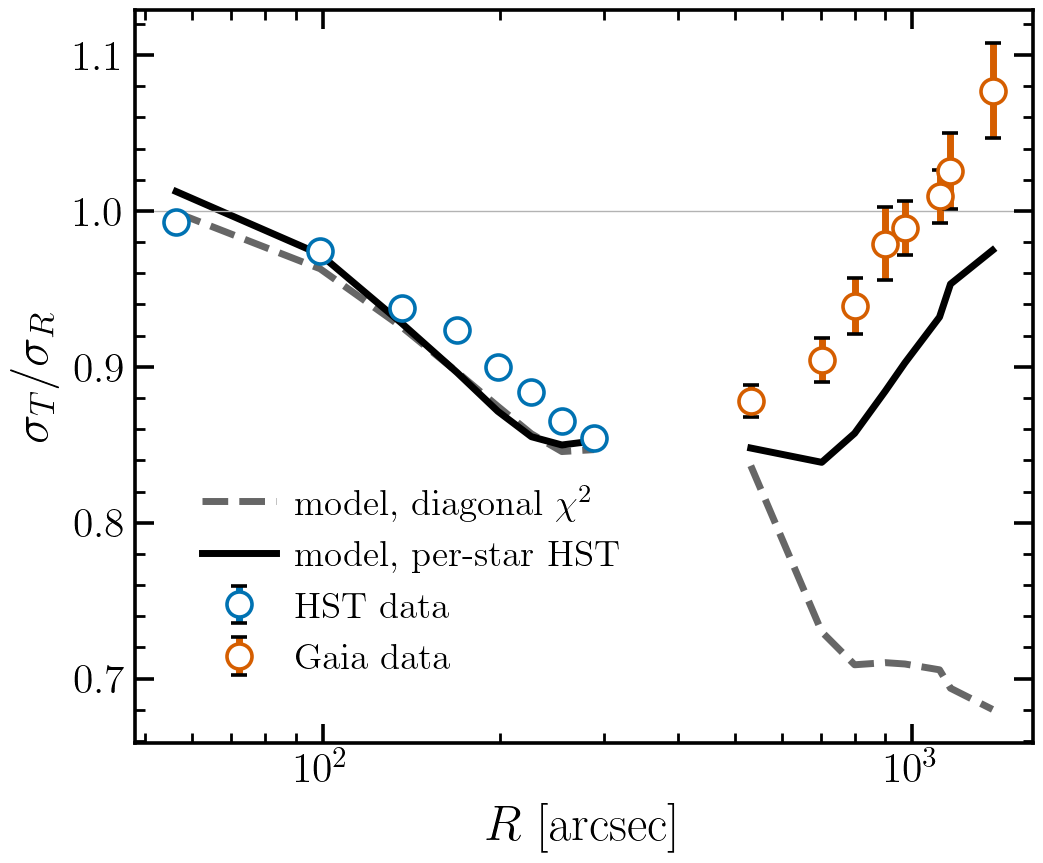
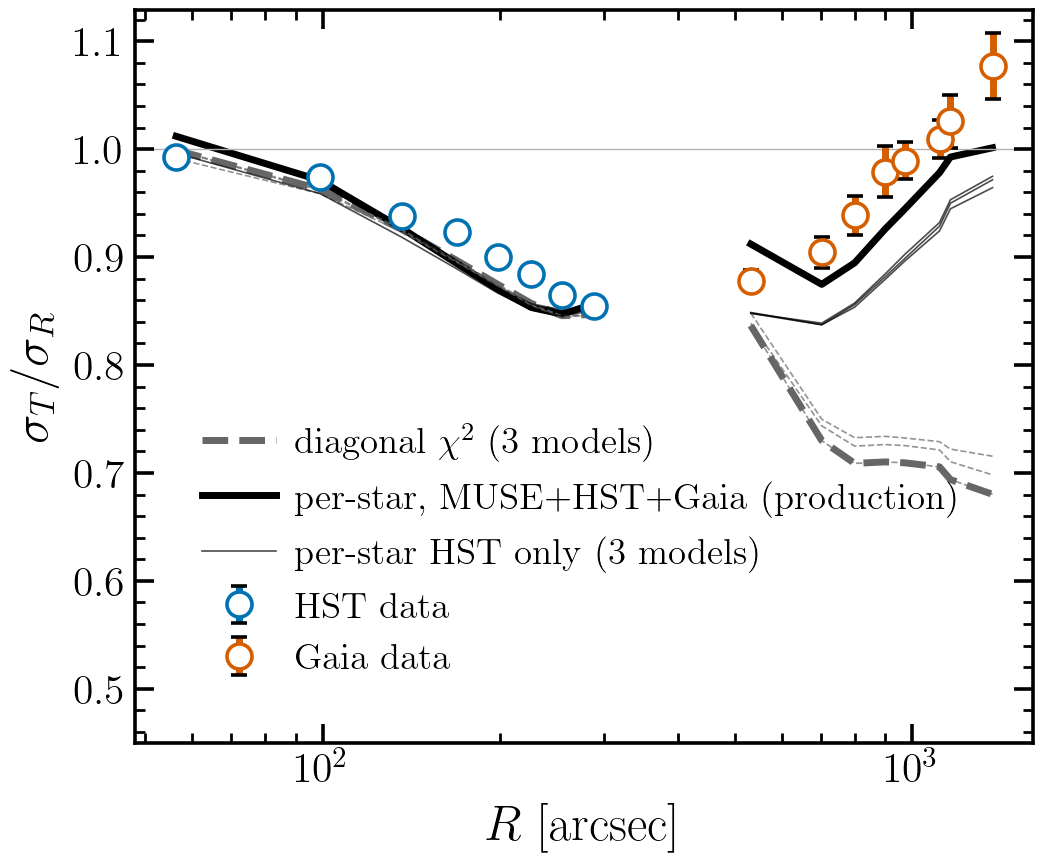
r10 from prod1 + three E1 libraries (paper + slide)

diff --git a/experiments/fitstat/paper_figs/r10_aniso.py b/experiments/fitstat/paper_figs/r10_aniso.py
@@ -1,6 +1,6 @@
 """Paper figure r10: the fitting statistic changes the inferred anisotropy. sigma_T/sigma_R against R for the data and
-for one model (orbit library orblib_001_001) solved under two statistics: diagonal chi2 on every set (v4) and the
-per-star HST likelihood (E1; MUSE and Gaia still diagonal).
+for orbit libraries solved under different statistics: diagonal chi2 on every set (v4), the per-star HST likelihood
+(E1), and the production statistic (per-star on MUSE, HST, Gaia). Main model thick, --also models thin.
 
 usage: python r10_aniso.py PACK_DIR MODEL_ANISO.npz TAG OUT.pdf [--slides] [--also MODEL_ANISO.npz ...]
 --also: other models (thin lines), each at v4 and at its one other weight tag, to show the change is not one model's.
@@ -21,7 +21,7 @@ P, Z, TAG, OUT = Path(sys.argv[1]), np.load(sys.argv[2]), sys.argv[3], sys.argv[
 SLIDES = "--slides" in sys.argv
 ALSO = sys.argv[sys.argv.index("--also") + 1:] if "--also" in sys.argv else []
 ALSO = [(np.load(f), next(k.split("|")[1] for k in np.load(f).files if k.split("|")[1] != "v4")) for f in ALSO]
-LABEL = "model, per-star likelihood" if TAG.startswith("prod") else "model, per-star HST"
+LABEL = "per-star, MUSE+HST+Gaia (production)" if TAG.startswith("prod") else "model, per-star HST"
 COL = {"hst_pm": "#0072B2", "gaia_pm": "#D55E00"}
 LAB = {"hst_pm": "HST", "gaia_pm": "Gaia"}
 
@@ -38,14 +38,16 @@ for s, f in (("hst_pm", "hst"), ("gaia_pm", "gaia")):
     r, m, e = mean_err(d["R"], d["st"] / d["sr"], g)
     ax.errorbar(r, m, e, ls="none", marker="o", color=COL[s], mec=COL[s], mfc="w", label=f"{LAB[s]} data", zorder=3)
     ax.plot(r, mean_err(d["R"], ratio("v4"), g)[1], color="0.4", ls="--",
-            label=r"model, diagonal $\chi^2$" if s == "hst_pm" else None)
+            label=r"diagonal $\chi^2$" + (f" ({len(ALSO)} models)" if ALSO else "") if s == "hst_pm" else None)
     ax.plot(r, mean_err(d["R"], ratio(TAG), g)[1], color="k",
             label=LABEL if s == "hst_pm" else None)
     for Zo, to in ALSO:
         ax.plot(r, mean_err(d["R"], ratio("v4", Zo), g)[1], color="0.4", ls="--", lw=0.6, alpha=0.7)
         ax.plot(r, mean_err(d["R"], ratio(to, Zo), g)[1], color="k", lw=0.6, alpha=0.7,
-                label="other models" if s == "hst_pm" and to == ALSO[0][1] else None)
+                label=f"per-star HST only ({len(ALSO)} models)" if s == "hst_pm" and to == ALSO[0][1] else None)
 ax.axhline(1, color="0.7", lw=0.5)
+if ALSO:
+    ax.set_ylim(0.45, None)  # room for the legend below the curves
 ax.set_xscale("log")
 ax.set_xlabel(r"$R$ [arcsec]")
 ax.set_ylabel(r"$\sigma_T/\sigma_R$")
